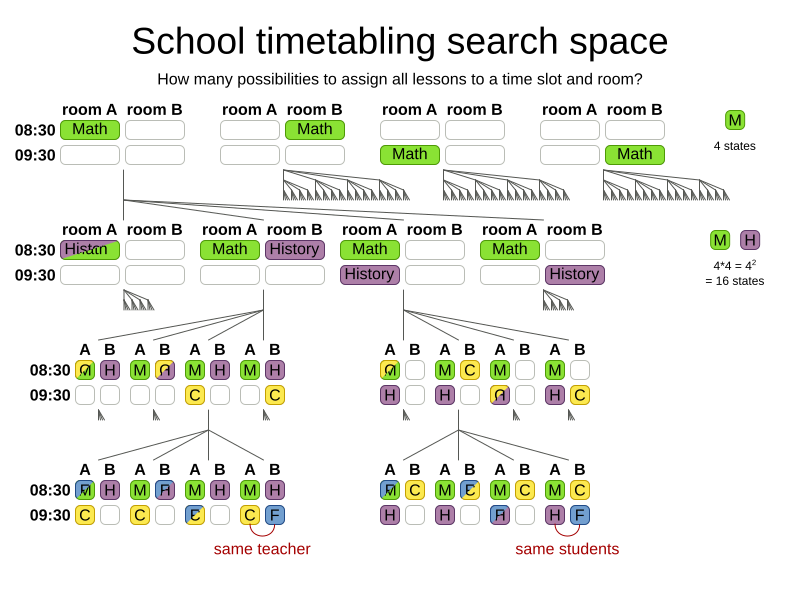
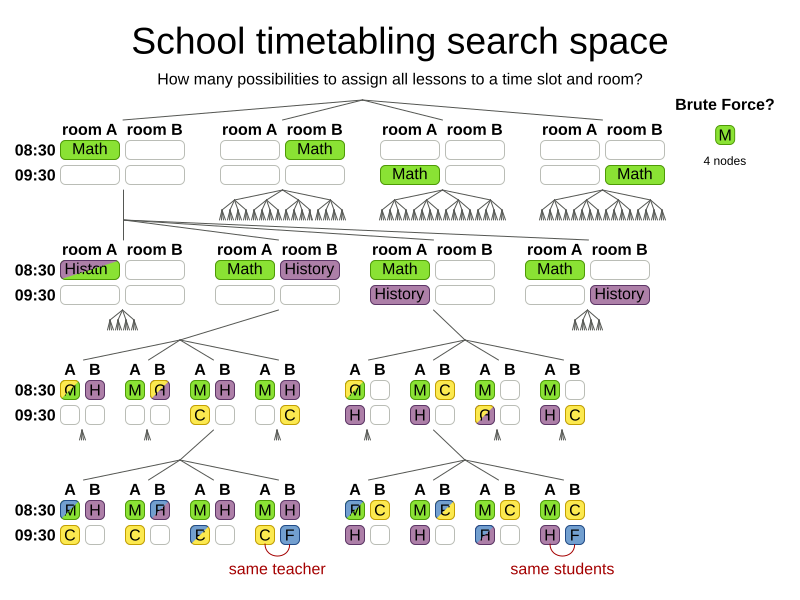
School timetabling diagrams: greedy, search space, hard constraints

Changed region(s): [[0.0, 0.15, 0.9688, 0.96], [0.8438, 0.15, 0.9688, 0.27]]

diff --git a/optaplanner-website-root/assets/learn/slides/optaplanner-presentation/index.html b/optaplanner-website-root/assets/learn/slides/optaplanner-presentation/index.html
@@ -986,6 +986,18 @@ $ <b>mvn clean install -DskipTests</b>
             <img src="QuickStart/SchoolTimetabling/schoolTimetablingInputOutput_2.png" class="fullImage fragment">
         </section>
         <section>
+            <img src="QuickStart/SchoolTimetabling/schoolTimetablingHardConstraints_0.png" class="fullImage">
+            <img src="QuickStart/SchoolTimetabling/schoolTimetablingHardConstraints_1.png" class="fullImage fragment">
+            <img src="QuickStart/SchoolTimetabling/schoolTimetablingHardConstraints_2.png" class="fullImage fragment">
+            <img src="QuickStart/SchoolTimetabling/schoolTimetablingHardConstraints_3.png" class="fullImage fragment">
+            <img src="QuickStart/SchoolTimetabling/schoolTimetablingHardConstraints_4.png" class="fullImage fragment">
+            <img src="QuickStart/SchoolTimetabling/schoolTimetablingHardConstraints_5.png" class="fullImage fragment">
+            <img src="QuickStart/SchoolTimetabling/schoolTimetablingHardConstraints_6.png" class="fullImage fragment">
+            <img src="QuickStart/SchoolTimetabling/schoolTimetablingHardConstraints_7.png" class="fullImage fragment">
+            <img src="QuickStart/SchoolTimetabling/schoolTimetablingHardConstraints_8.png" class="fullImage fragment">
+            <img src="QuickStart/SchoolTimetabling/schoolTimetablingHardConstraints_9.png" class="fullImage fragment">
+        </section>
+        <section>
             <img src="QuickStart/SchoolTimetabling/schoolTimetablingSearchSpace_0.png" class="fullImage">
             <img src="QuickStart/SchoolTimetabling/schoolTimetablingSearchSpace_1.png" class="fullImage fragment">
             <img src="QuickStart/SchoolTimetabling/schoolTimetablingSearchSpace_2.png" class="fullImage fragment">
@@ -996,6 +1008,7 @@ $ <b>mvn clean install -DskipTests</b>
             <img src="QuickStart/SchoolTimetabling/schoolTimetablingSearchSpace_7.png" class="fullImage fragment">
             <img src="QuickStart/SchoolTimetabling/schoolTimetablingSearchSpace_8.png" class="fullImage fragment">
             <img src="QuickStart/SchoolTimetabling/schoolTimetablingSearchSpace_9.png" class="fullImage fragment">
+            <img src="QuickStart/SchoolTimetabling/schoolTimetablingSearchSpace_10.png" class="fullImage fragment">
         </section>
         <section>
             <h3>How big is the search space?</h3>
@@ -1142,6 +1155,17 @@ return HardSoftScore.ofHard(hardScore);</code></pre>
                     it checks <i>again</i><br/> if French and Chemistry use the same room.
                 </p>
             </div>
+        </section>
+        <section>
+            <img src="QuickStart/SchoolTimetabling/schoolTimetablingGreedyAlgorithm_0.png" class="fullImage">
+            <img src="QuickStart/SchoolTimetabling/schoolTimetablingGreedyAlgorithm_1.png" class="fullImage fragment">
+            <img src="QuickStart/SchoolTimetabling/schoolTimetablingGreedyAlgorithm_2.png" class="fullImage fragment">
+            <img src="QuickStart/SchoolTimetabling/schoolTimetablingGreedyAlgorithm_3.png" class="fullImage fragment">
+            <img src="QuickStart/SchoolTimetabling/schoolTimetablingGreedyAlgorithm_4.png" class="fullImage fragment">
+            <img src="QuickStart/SchoolTimetabling/schoolTimetablingGreedyAlgorithm_5.png" class="fullImage fragment">
+            <img src="QuickStart/SchoolTimetabling/schoolTimetablingGreedyAlgorithm_6.png" class="fullImage fragment">
+            <img src="QuickStart/SchoolTimetabling/schoolTimetablingGreedyAlgorithm_7.png" class="fullImage fragment">
+            <img src="QuickStart/SchoolTimetabling/schoolTimetablingGreedyAlgorithm_8.png" class="fullImage fragment">
         </section>
     </section>
 
